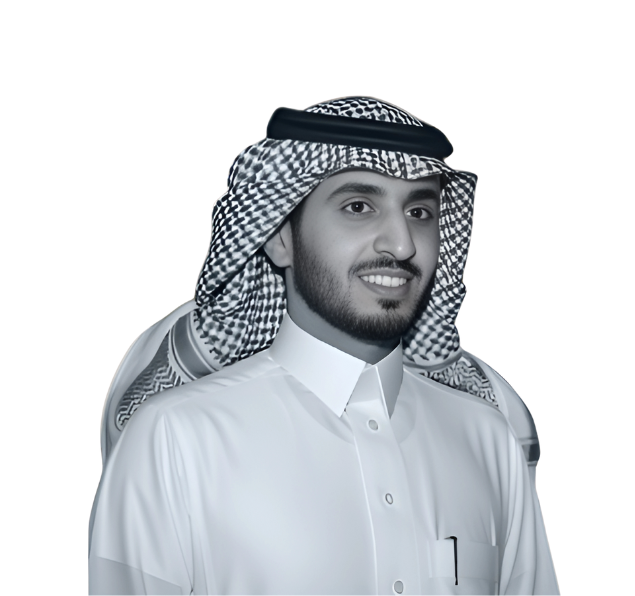
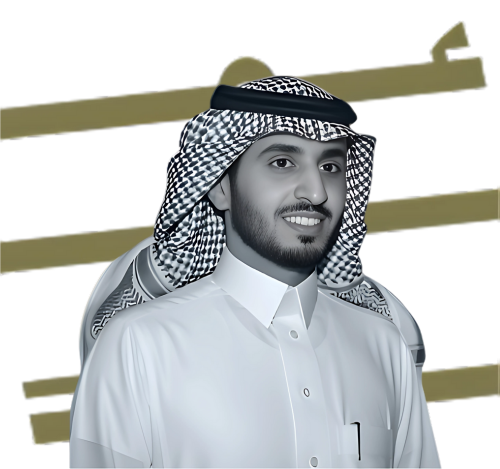
Landing page coded

diff --git a/src/app/(root)/page.tsx b/src/app/(root)/page.tsx
@@ -1,5 +1,35 @@
+import Image from "next/image";
+
 export default function Page() {
   return (
-    <section className="hero__section">Hello World</section>
-  )
+    <section
+      className="hero__section bg-cover relative bg-center"
+      style={{ backgroundImage: "url(/hero-section-bg.png)" }}
+    >
+      <div className="cover block w-full z-0 h-full absolute top-0 left-0 bg-[#0f182bb3]"></div>
+
+      <div className="container mx-auto pt-12 px-6 relative flex items-end justify-between max-lg:flex-col max-lg:justify-center max-lg:items-center">
+        <div className="right pb-[100px] max-lg:pb-[30px] grid gap-8 max-lg:flex max-lg:flex-col max-lg:items-center">
+          <h1 className="title text-white font-black text-[46px] max-lg:text-[32px]">
+            عماد اليابسي
+          </h1>
+          <p className="desc text-slate-300 leading-[1.7] text-[20px] max-lg:text-[18px] max-lg:text-center">
+            خدمة المحاماة عند عماد قمة في الاحترافية، دقة في التفاصيل وحلول<br />
+            قانونية تضمن لك حقك بكل ثقة
+          </p>
+          <button type="button" aria-label="Contact" className="w-fit cursor-pointer py-3 px-8 font-bold text-white bg-[#7f764f] rounded-md transition-all hover:bg-transparent hover:text-[#7f764f] border-2 border-solid border-[#7f764f]">احجز استشارتك</button>
+        </div>
+
+        <div className="left mr-10 max-lg:mr-0">
+          <Image
+            src={"/hero-section.png"}
+            alt="Hero Section"
+            width={500}
+            height={0}
+            className="w-[500px] h-fit"
+          />
+        </div>
+      </div>
+    </section>
+  );
 }

diff --git a/src/components/MobileNav.tsx b/src/components/MobileNav.tsx
@@ -16,9 +16,9 @@ export default function MobileNav({ items, isOpened, setIsOpened } : MobileNavPr
   return (
     <>
       { isOpened && (
-        <div className="cover hidden max-lg:block w-[100%] h-[100vh] fixed top-0 left-0 bg-[#0f182bb3]"></div>
+        <div className="cover hidden z-[9998] max-lg:block w-[100%] h-[100vh] fixed top-0 left-0 bg-[#0f182bb3]"></div>
       ) }
-      <div className={`mobile__nav hidden max-lg:block fixed top-0 h-[100vh] bg-[#7f764f] w-[280px] pt-[100px] transition-all ease-in-out duration-[400ms] px-6 ${ isOpened ? "left-0" : "-left-full" }`}>
+      <div className={`mobile__nav z-[9999] hidden max-lg:block fixed top-0 h-[100vh] bg-[#7f764f] w-[280px] pt-[100px] transition-all ease-in-out duration-[400ms] px-6 ${ isOpened ? "left-0" : "-left-full" }`}>
         {/* Close Btn */}
         <button type="button" aria-label="Close Btn" onClick={() => setIsOpened(false)} className="close__btn text-white absolute top-4 right-4 cursor-pointer w-[40px] h-[40px] flex items-center justify-center rounded-md hover:bg-[#e5dcd5] transition-all hover:text-black">
           <IoCloseOutline size={28} />

diff --git a/src/components/Navbar.tsx b/src/components/Navbar.tsx
@@ -26,7 +26,7 @@ export default function Navbar({ logo, items, isOpened, setIsOpened } : NavProps
           <Image src={logo} alt="Logo" width={60} height={0} className="rounded-lg shadow-lg" />
           <div className="logo__text__container grid gap-1 text-center max-lg:text-right font-bold text-white">
             <span className="text-[18px] max-sm:text-[16px]">عماد اليابسي</span>
-            <span className="font-[400] max-sm:text-[14px]">محامي قانوني و استشاري</span>
+            <span className="font-[400] max-sm:text-[14px]">محامي و استشاري قانوني</span>
           </div>
         </div>
 
